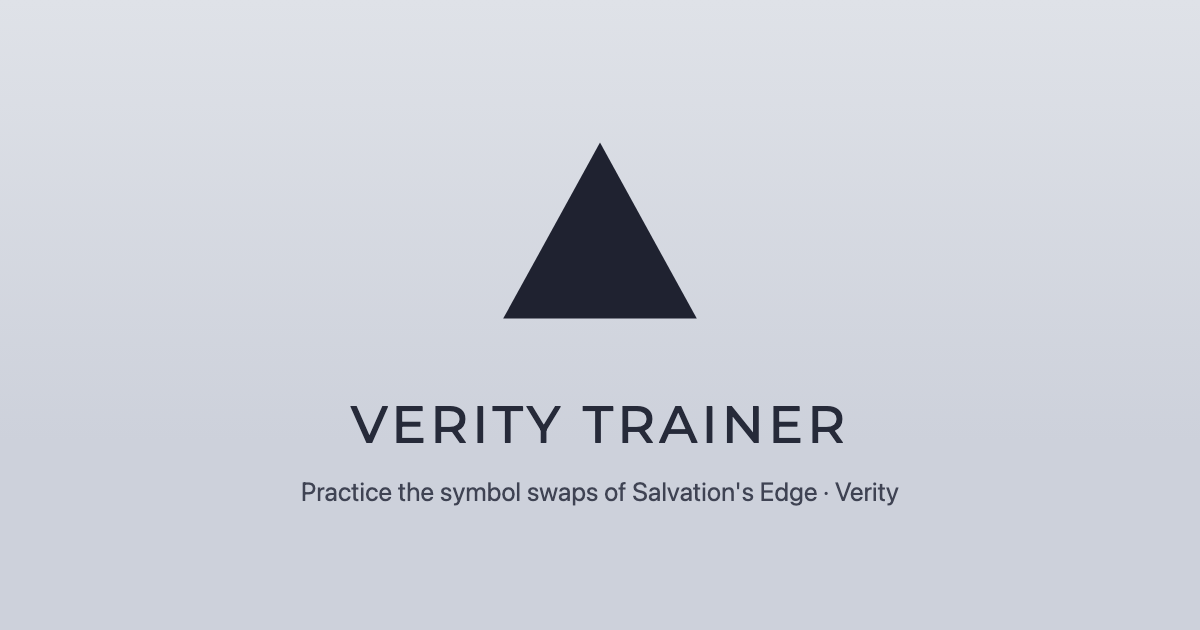
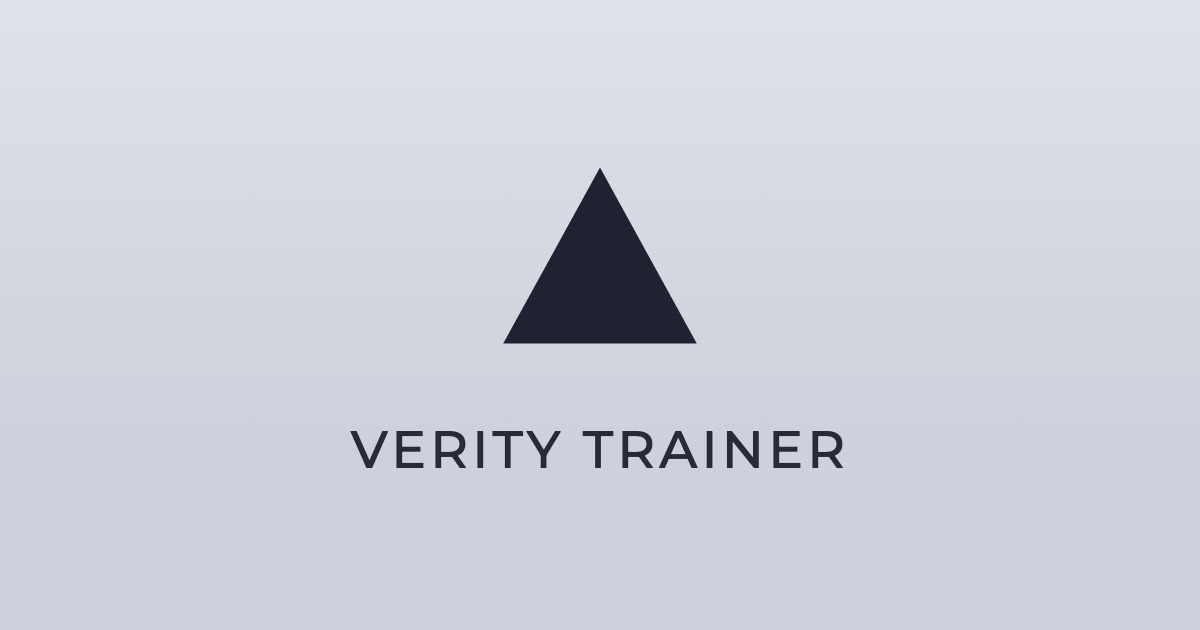
refactor(meta): make link preview language-neutral

Changed region(s): [[0.2467, 0.6333, 0.74, 0.8143], [0.4008, 0.2413, 0.5858, 0.573]]

diff --git a/index.html b/index.html
@@ -5,19 +5,18 @@
     <link rel="icon" type="image/svg+xml" href="/favicon.svg" />
     <meta name="viewport" content="width=device-width, initial-scale=1.0" />
     <title>Verity Trainer</title>
-    <meta name="description" content="Practice the symbol swaps of Verity, the fourth encounter of Salvation's Edge. Recreate your run's starting point and see the shortest solution." />
     <meta name="theme-color" content="#cdd1db" />
 
-    <!-- Previsualización al compartir el enlace (Discord, WhatsApp, Telegram, X…). URL en .env: VITE_SITE_URL -->
+    <!-- Previsualización al compartir el enlace (Discord, WhatsApp, Telegram, X…), neutra en idioma:
+         sin descripción y con una imagen sin texto traducible. URL en .env: VITE_SITE_URL -->
     <meta property="og:type" content="website" />
     <meta property="og:site_name" content="Verity Trainer" />
     <meta property="og:title" content="Verity Trainer" />
-    <meta property="og:description" content="Practice the symbol swaps of Verity, the fourth encounter of Salvation's Edge. Recreate your run's starting point and see the shortest solution." />
     <meta property="og:url" content="%VITE_SITE_URL%/" />
     <meta property="og:image" content="%VITE_SITE_URL%/og-image.png" />
     <meta property="og:image:width" content="1200" />
     <meta property="og:image:height" content="630" />
-    <meta property="og:image:alt" content="A black triangle above the title Verity Trainer, on a misty blue-grey background." />
+    <meta property="og:image:alt" content="Verity Trainer" />
     <meta name="twitter:card" content="summary_large_image" />
   </head>
   <body>
